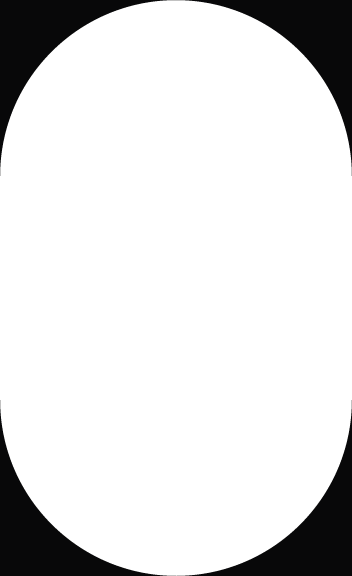
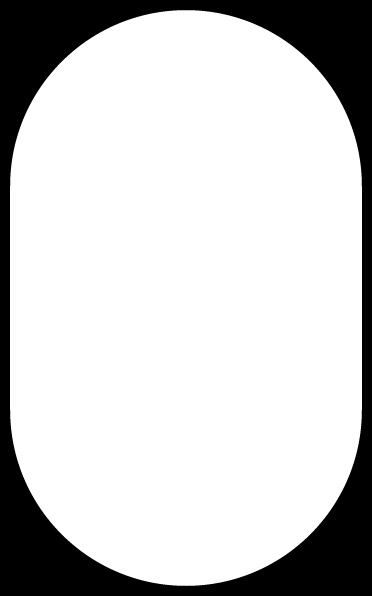
Add movement to image container that tracks mouse

Changed region(s): [[0.0, 0.0, 1.0, 1.0]]

diff --git a/src/CarouselTile/CenterImage.js b/src/CarouselTile/CenterImage.js
@@ -1,7 +1,16 @@
 import { Box, keyframes } from '@mui/material';
 import PropTypes from 'prop-types';
+import { useEffect, useState } from 'react';
+import { Transition } from 'react-transition-group';
 import { entranceAnimationDelay, entranceAnimationDuration } from '../constants';
 import { tilesProps } from '../utils/prop-types';
+
+const transitionStyles = {
+  entering: { opacity: 0, visibility: 'visible' },
+  entered: { opacity: 1, visibility: 'visible' },
+  exiting: { opacity: 1, visibility: 'visible' },
+  exited: { opacity: 0, visibility: 'hidden' },
+};
 
 const fadeIn = keyframes`
   0% {
@@ -16,20 +25,97 @@ const fadeIn = keyframes`
   }
 `;
 
-export default function CenterImage({ tiles, selectedTileIndex }) {
-  const selected = true;
+function FadeableImage({
+  src, alt, overlay, overlayAlt, state, selected, zoom, startingZoom, offset,
+}) {
+  return (
+    <Box
+      sx={{
+        height: '100%',
+        width: '100%',
+        display: 'flex',
+        position: 'absolute',
+        left: 0,
+        top: 0,
+        transform: `translate(${offset[0]}px, ${offset[1]}px)`,
+        transition: 'transform 0.5s ease-out',
+        ...transitionStyles[state],
+      }}
+      key={src}
+    >
+      <img
+        src={src}
+        style={{
+          position: 'absolute',
+          left: '50%',
+          top: '50%',
+          transition: 'transform 1s ease',
+          transform: selected ? zoom : startingZoom,
+        }}
+        alt={alt}
+      />
+      {overlay && (
+        <img
+          src={overlay}
+          style={{
+            position: 'absolute',
+            zIndex: 12,
+            top: '50%',
+            left: '50%',
+            transform: 'translate(-50%, -50%)',
+          }}
+          alt={overlayAlt}
+        />
+      )}
+    </Box>
+  );
+}
 
-  const tile = tiles[selectedTileIndex];
+FadeableImage.propTypes = {
+  src: PropTypes.string.isRequired,
+  alt: PropTypes.string.isRequired,
+  overlay: PropTypes.string.isRequired,
+  overlayAlt: PropTypes.string.isRequired,
+  state: PropTypes.oneOf(['entering', 'entered', 'exiting', 'exited']).isRequired,
+  selected: PropTypes.bool.isRequired,
+  zoom: PropTypes.string.isRequired,
+  startingZoom: PropTypes.string.isRequired,
+  offset: PropTypes.array.isRequired,
+};
+
+export default function CenterImage({ tiles, selectedTileIndex }) {
+  const [imageOffset, setImageOffset] = useState([0, 0]);
+
+  useEffect(() => {
+    let enableCall = true;
+
+    document.body.addEventListener('mousemove', (e) => {
+      if (!enableCall) return;
+
+      enableCall = false;
+      const documentMidpointY = document.body.offsetHeight / 2;
+      const documentMidpointX = document.body.offsetWidth / 2;
+
+      const percentX = (e.pageX - documentMidpointX) / documentMidpointX;
+      const percentY = (e.pageY - documentMidpointY) / documentMidpointY;
+
+      const offsetConstant = 10;
+
+      setImageOffset([percentX * offsetConstant, percentY * offsetConstant]);
+
+      setTimeout(() => { enableCall = true; }, 100);
+    });
+  }, []);
 
   return (
     <Box
       sx={{
         display: 'flex',
-        flex: '4',
+        flex: '4 4',
         alignItems: 'center',
         justifyContent: 'center',
         position: 'relative',
-        m: '6rem',
+        m: '3rem',
         zIndex: '1',
         animation: `${fadeIn} ${entranceAnimationDuration}s both ${entranceAnimationDelay + 0.2}s`,
       }}
@@ -41,6 +127,7 @@ export default function CenterImage({ tiles, selectedTileIndex }) {
           height: '100%',
           overflow: 'hidden',
           maxHeight: '800px',
+          width: '100%',
         }}
       >
         <img
@@ -52,30 +139,41 @@ export default function CenterImage({ tiles, selectedTileIndex }) {
             zIndex: 11,
             width: '100%',
             height: '100%',
+            display: 'flex',
           }}
           alt="Overlay used over other images to provide rounded edges"
         />
-        <img
-          src={tile['main-image']}
-          style={{
-            transition: 'transform 1s ease',
-            transform: selected ? tile['main-image-zoom'] : tile['main-image-zoom-start'],
+        <Box
+          sx={{
+            height: '100%',
+            width: '100%',
+            display: 'flex',
+            position: 'relative',
           }}
-          alt={tile['main-image-alt']}
-        />
-        {tile['main-image-overlay'] && (
-          <img
-            src={tile['main-image-overlay']}
-            style={{
-              position: 'absolute',
-              zIndex: 12,
-              top: '50%',
-              left: '50%',
-              transform: 'translate(-50%, -50%)',
-            }}
-            alt={tile['main-image-overlay-alt']}
-          />
-        )}
+        >
+          {tiles.map((tile, index) => (
+            <Transition
+              in={index === selectedTileIndex}
+              timeout={0}
+              key={tile.title}
+            >
+              {(state) => (
+                <FadeableImage
+                  src={tile['main-image']}
+                  alt={tile['main-image-alt']}
+                  overlay={tile['main-image-overlay']}
+                  overlayAlt={tile['main-image-overlay-alt']}
+                  zoom={tile['main-image-zoom']}
+                  startingZoom={tile['main-image-zoom-start']}
+                  state={state}
+                  index={index}
+                  selected={selectedTileIndex === index}
+                  offset={imageOffset}
+                />
+              )}
+            </Transition>
+          ))}
+        </Box>
       </Box>
     </Box>
   );

diff --git a/src/CarouselTile/index.js b/src/CarouselTile/index.js
@@ -151,14 +151,14 @@ export default function CarouselTile({ selectedTileIndex }) {
         <Box
           sx={{
             display: 'flex',
-            flex: '4',
+            flex: '4 4',
           }}
         />
         <CenterImage tiles={tiles} selectedTileIndex={selectedTileIndex} />
         <Box
           sx={{
             display: 'flex',
-            flex: '4',
+            flex: '4 4',
           }}
         />
       </Box>
